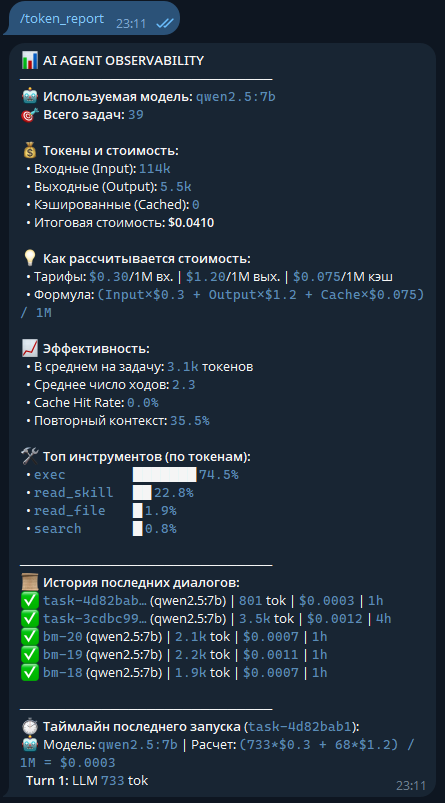
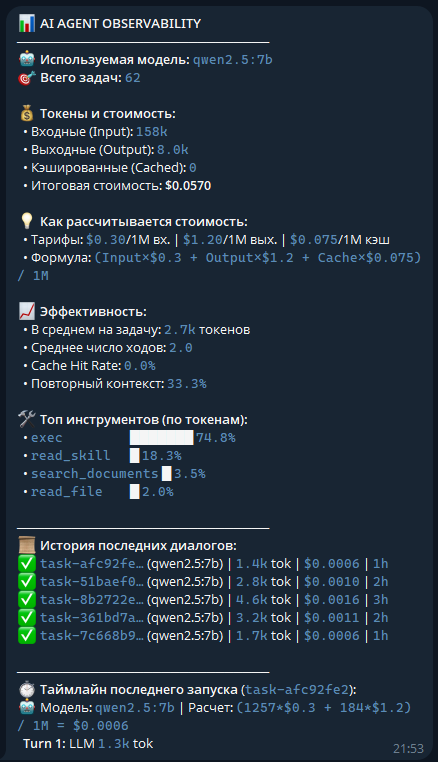
docs: add screenshots for token observability dashboard and RAG documents management

Changed region(s): [[0.0, 0.0, 0.9498, 0.9961], [0.8904, 0.9659, 0.9795, 0.9961]]

diff --git a/README.md b/README.md
@@ -258,6 +258,10 @@ flowchart TD
   * `/documents` — список проиндексированных файлов с ID, датой, числом страниц и фрагментов.
   * `/delete <ID или имя файла>` — удаление документа из базы.
 
+<p align="center">
+  <img src="docs/images/documents_list.png" alt="Управление документами через команду /documents" width="460"/>
+</p>
+
 ### 6. Анти-галлюцинации и цитирование
 * В системный промпт агента динамически инжектируются правила:
   * Обязательное использование `search_documents` при вопросах о личных документах или регламентах.
